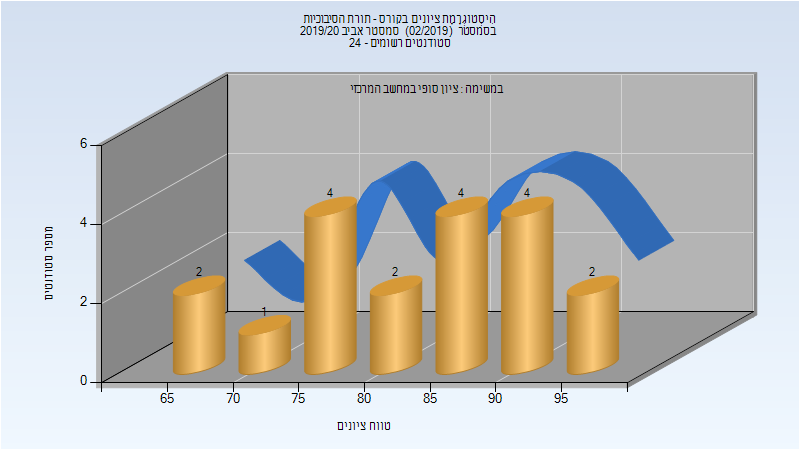
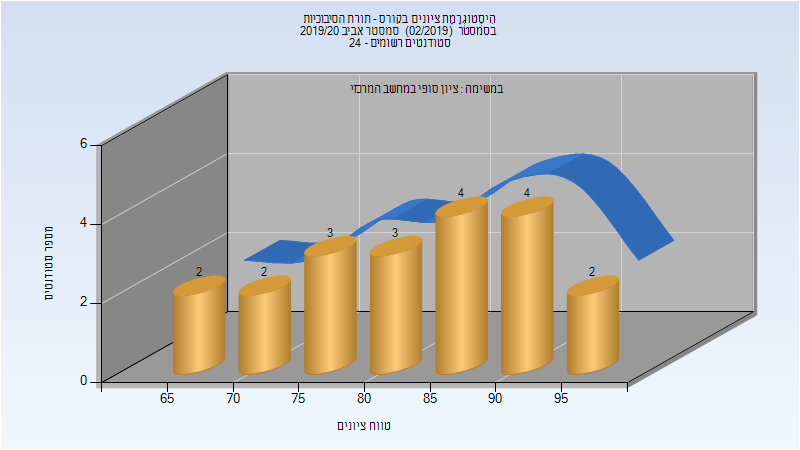
Deploy michael-maltsev/technion-histograms to github.com/michael-maltsev/technion-histograms.git:gh-pages

Changed region(s): [[0.2812, 0.3422, 0.5625, 0.7467], [0.5938, 0.3733, 0.6875, 0.5289], [0.6875, 0.3422, 0.7188, 0.3733]]

diff --git a/104274/index.html b/104274/index.html
@@ -79,12 +79,12 @@
 <tbody>
 <tr>
 <td>14</td>
-<td>12/2</td>
-<td>86</td>
-<td>43</td>
+<td>13/1</td>
+<td>93</td>
+<td>47</td>
 <td>100</td>
-<td>84.143</td>
-<td>90</td>
+<td>88.571</td>
+<td>91</td>
 </tr>
 </tbody>
 </table>

diff --git a/236313/index.html b/236313/index.html
@@ -52,13 +52,13 @@
 </thead>
 <tbody>
 <tr>
-<td>19</td>
-<td>19/0</td>
+<td>20</td>
+<td>20/0</td>
 <td>100</td>
 <td>65</td>
 <td>97</td>
-<td>82.947</td>
-<td>80</td>
+<td>82.7</td>
+<td>85</td>
 </tr>
 </tbody>
 </table>

diff --git a/104274/README.md b/104274/README.md
@@ -20,5 +20,5 @@
 
 | סטודנטים | עברו/נכשלו | אחוז עוברים | ציון מינימלי | ציון מקסימלי | ממוצע | חציון |
 | ---- | ---- | ---- | ---- | ---- | ---- | ---- |
-| 14 | 12/2 | 86 | 43 | 100 | 84.143 | 90 |
+| 14 | 13/1 | 93 | 47 | 100 | 88.571 | 91 |
 

diff --git a/236313/README.md b/236313/README.md
@@ -12,5 +12,5 @@
 
 | סטודנטים | עברו/נכשלו | אחוז עוברים | ציון מינימלי | ציון מקסימלי | ממוצע | חציון |
 | ---- | ---- | ---- | ---- | ---- | ---- | ---- |
-| 19 | 19/0 | 100 | 65 | 97 | 82.947 | 80 |
+| 20 | 20/0 | 100 | 65 | 97 | 82.7 | 85 |
 
